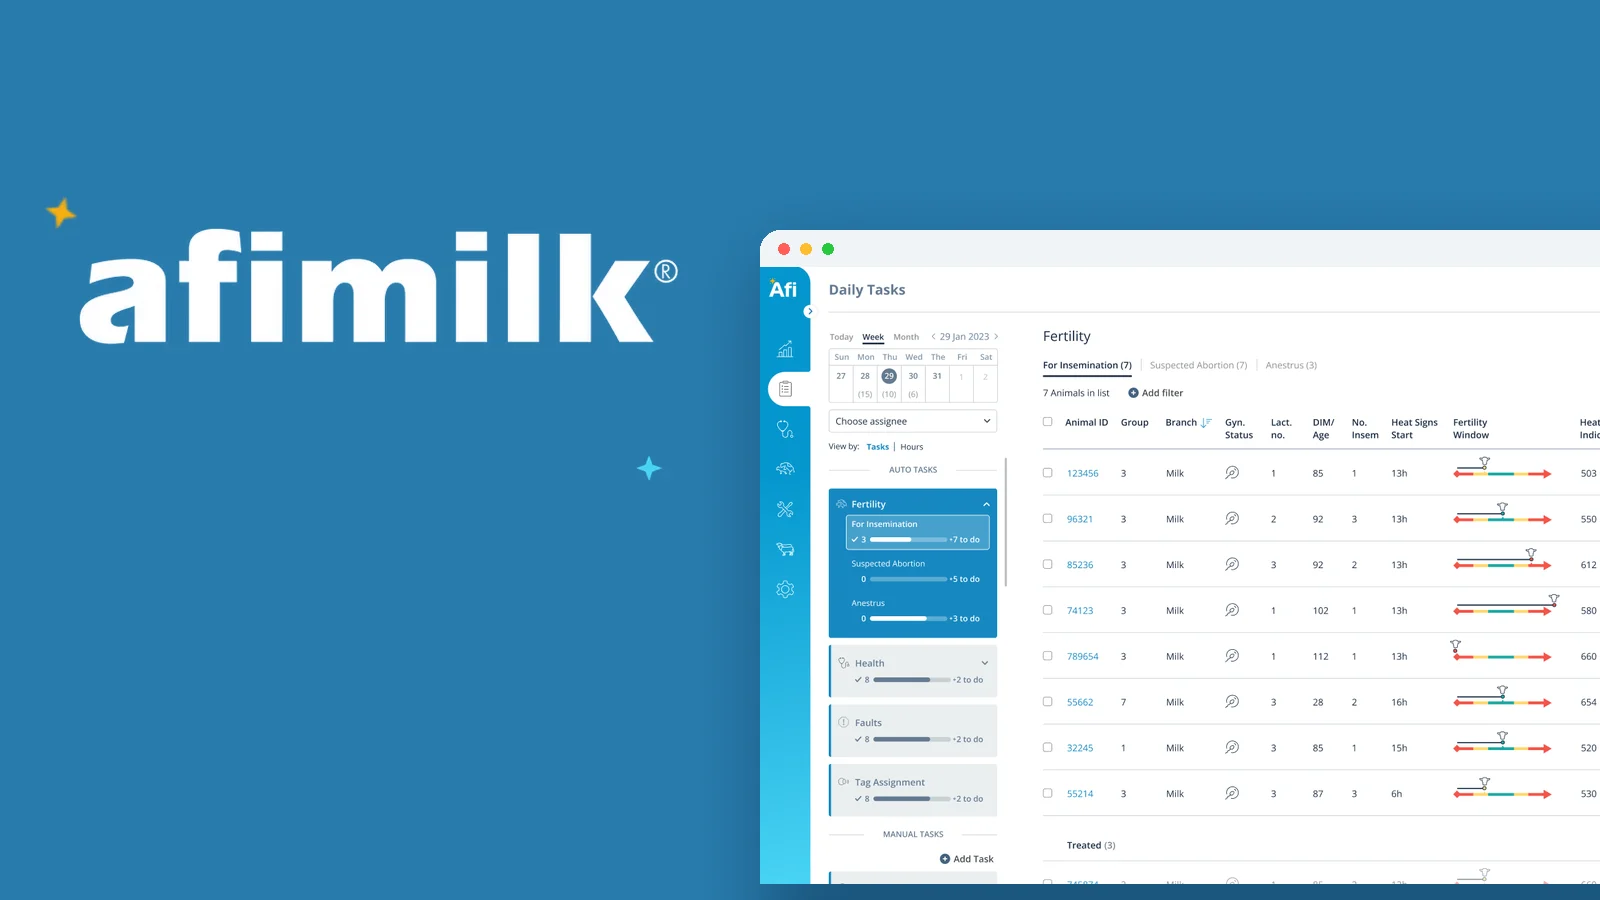
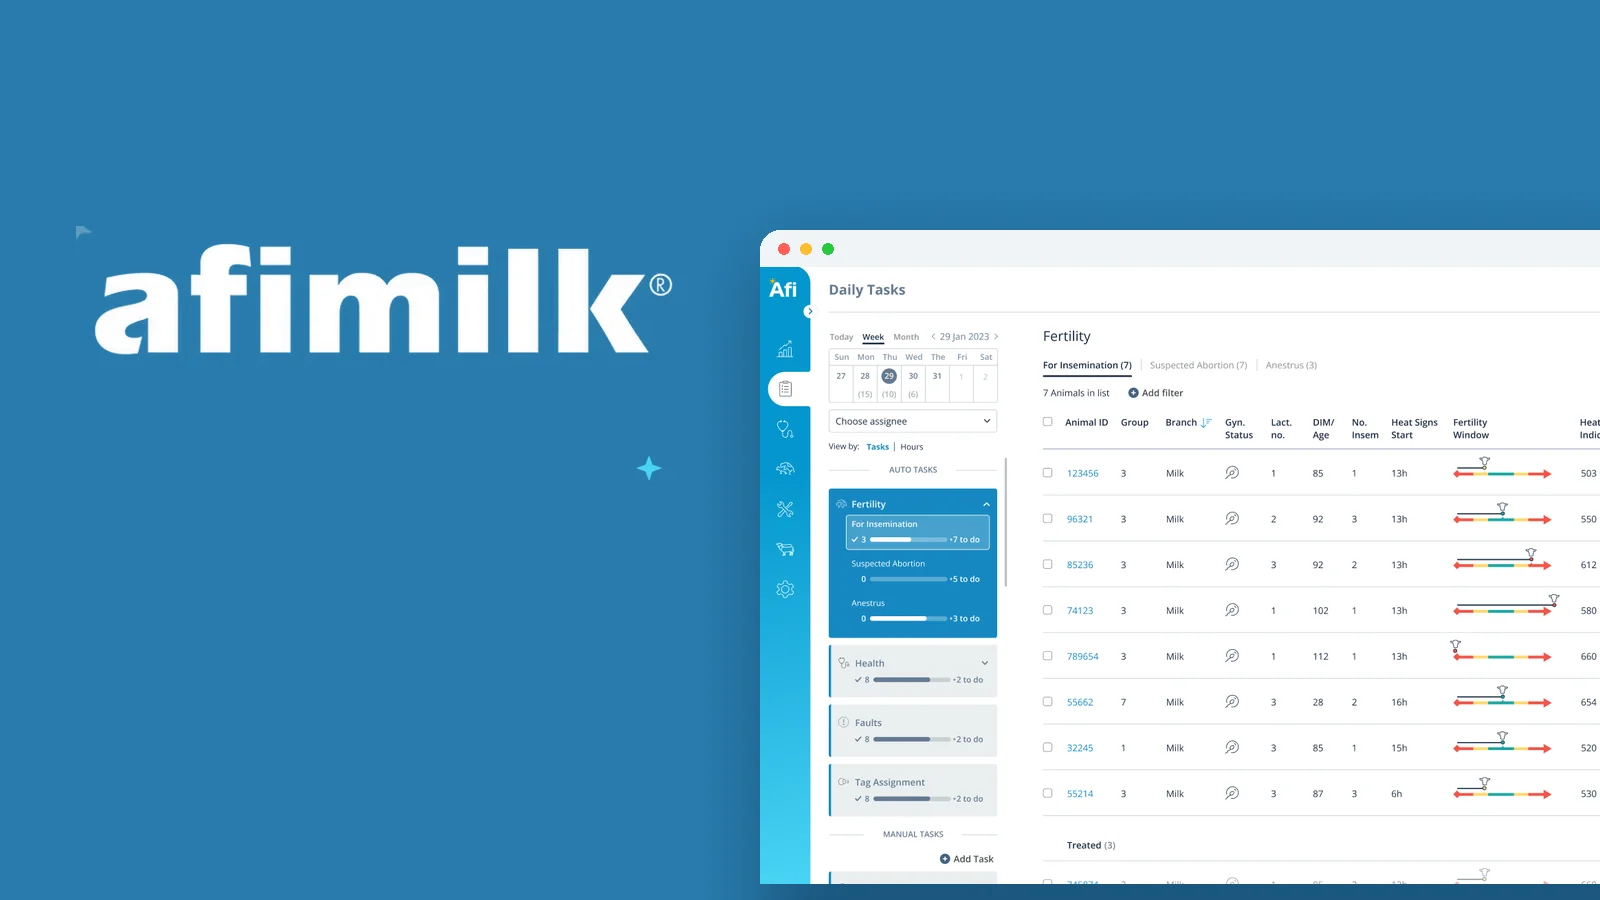
Farmers cover: the real app screens in device frames, matching the other covers
Claude-Session: https://claude.ai/code/session_01U3LnkADmWK6BWBvsiVpdjW

Changed region(s): [[0.0312, 0.2489, 0.4375, 0.4044], [0.0312, 0.2178, 0.0625, 0.2489]]

diff --git a/scripts/afimilk-covers.py b/scripts/afimilk-covers.py
@@ -58,10 +58,31 @@ def base():
     return cv
 
 
-# ---- Farmers: the phone renders, copied straight off the same flat blue ----
+def phone(src, height, pad=13, radius=46):
+    """A plain device frame, so the screens read the same way as the browser windows."""
+    sh = Image.open(src).convert('RGB')
+    sh = sh.resize((int(sh.width * height / sh.height), height), Image.LANCZOS)
+    fr = Image.new('RGBA', (sh.width + pad * 2, height + pad * 2), (0, 0, 0, 0))
+    ImageDraw.Draw(fr).rounded_rectangle((0, 0, fr.width - 1, fr.height - 1), radius, fill=(24, 25, 29, 255))
+    m = Image.new('L', sh.size, 0)
+    ImageDraw.Draw(m).rounded_rectangle((0, 0, sh.width - 1, sh.height - 1), radius - pad, fill=255)
+    fr.paste(sh, (pad, pad), m)
+    return fr
+
+
+def drop(cv, layer, x, y, blur=30, strength=110):
+    sh = Image.new('L', (W, H), 0)
+    sh.paste(layer.split()[3].point(lambda v: strength if v > 8 else 0), (x + 6, y + 22))
+    sh = sh.filter(ImageFilter.GaussianBlur(blur))
+    cv = Image.composite(Image.new('RGB', (W, H), (12, 48, 78)), cv, sh)
+    cv.paste(layer, (x, y), layer)
+    return cv
+
+
+# ---- Farmers: the two app screens in device frames, front one bleeding off the bottom ----
 cv = base()
-phones = brand.crop((840, 10, 1460, 890))
-cv.paste(phones, (W - phones.width + 130, 8))
+cv = drop(cv, phone(IMG / 'farmers' / 'cow-after.webp', 648), 1150, 124)
+cv = drop(cv, phone(ROOT / 'scripts' / 'assets' / 'farmers-tasks.png', 742), 820, 186)
 cv.save(IMG / 'farmers-1600.webp', quality=86)
 cv.resize((800, 450), Image.LANCZOS).save(IMG / 'farmers-800.webp', quality=86)
 print('wrote farmers')
